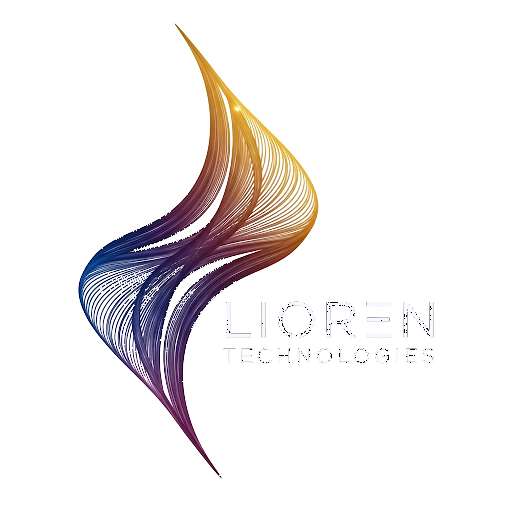
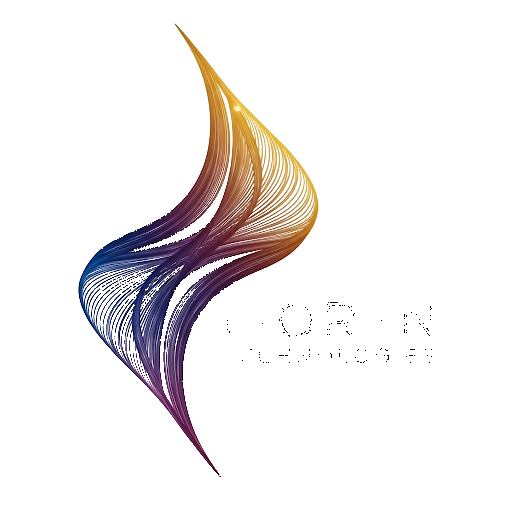
Fix nav link visibility, hero cursor, and remove wordmark from flame PNG

diff --git a/assets/lioren.css b/assets/lioren.css
@@ -59,9 +59,9 @@ a { color: inherit; text-decoration: none; }
 .nav-links a {
   font-family: var(--mono); font-size: 13px;
   letter-spacing: 0.12em; text-transform: uppercase;
-  color: var(--muted); transition: color 0.18s ease;
+  color: var(--text); transition: color 0.18s ease;
 }
-.nav-links a:hover { color: var(--text); }
+.nav-links a:hover { color: var(--gold); }
 
 /* Sections */
 .section { padding: 110px 0; }
@@ -97,6 +97,7 @@ a { color: inherit; text-decoration: none; }
   position: relative; overflow: hidden;
   min-height: calc(100vh - 76px);
   display: flex; align-items: center; padding: 80px 0;
+  cursor: default;
 }
 .hero .wrap { position: relative; z-index: 1; }
 .hero-inner { max-width: 880px; }
